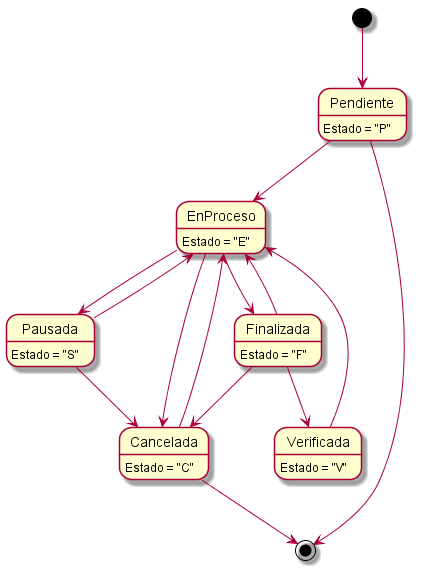
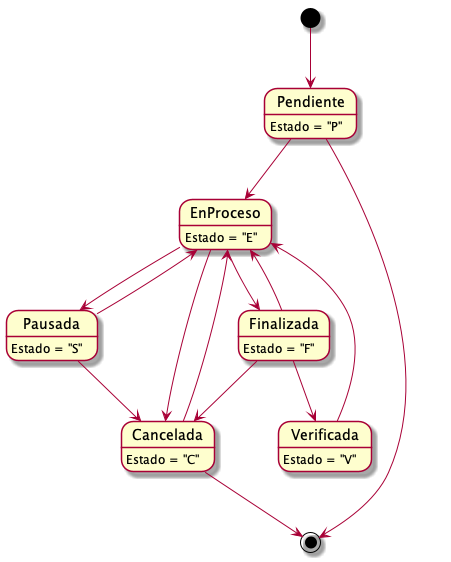
Nuevo Diagrama de Clases y cambios en Documentacion

diff --git a/Informe Final/Capitulos/Capitulo4/cap4sec1.tex b/Informe Final/Capitulos/Capitulo4/cap4sec1.tex
@@ -495,16 +495,68 @@
 			\input{Capitulos/Capitulo4/CasosUso/GestionTareas/cancelarTarea.tex}
 			\input{Capitulos/Capitulo4/CasosUso/GestionTareas/ejecutarTarea.tex}
 		\end{enumerate}
-	
-	\subsection{Diagramas de estado}
-	Solo se especificarán los diagramas de estado más relevantes del sistema.
 
-	\stateDiagram{empleados}{Diagrama de estado - Empleados}
-	\stateDiagram{tareas}{Diagrama de estado - Tareas}
-	\stateDiagram{lineasProducto}{Diagrama de estado - Lineas de producto}
-	\stateDiagram{presupuestos}{Diagrama de estado - Presupuestos}
-	\stateDiagram{ventas}{Diagrama de estado - Ventas}
-	\stateDiagram{ordenesProduccion}{Diagrama de estado - Órdenes de producción}
+	\subsection{Diagramas de clases}
+	\begin{figure}[H]
+		\centering
+		\includegraphics[width=\textwidth,height=0.90\textheight,keepaspectratio]{DiagramaClases/Vistas/diagramaClases}
+		\caption{Diagrama de clases}
+	\label{fig:Diagrama de clases}
+	\end{figure}
+	\clearpage %salto de pagina
+
+	\begin{figure}[H]
+		\centering
+		\includegraphics[width=\textwidth,height=0.90\textheight,keepaspectratio]{DiagramaClases/Vistas/vistaSistema}
+		\caption{Diagrama de clases - Vista sistema}
+	\label{fig:Diagrama de clases - Vista sistema}
+	\end{figure}
+
+	\begin{figure}[H]
+		\centering
+		\includegraphics[width=\textwidth,height=0.90\textheight,keepaspectratio]{DiagramaClases/Vistas/vistaClientes}
+		\caption{Diagrama de clases - Vista clientes}
+	\label{fig:Diagrama de clases - Vista clientes}
+    \end{figure}
+	\begin{figure}[H]
+		\centering
+		\includegraphics[width=\textwidth,height=0.90\textheight,keepaspectratio]{DiagramaClases/Vistas/vistaProductos}
+		\caption{Diagrama de clases - Vista productos}
+	\label{fig:Diagrama de clases - Vista productos}
+	\end{figure}
+	
+	\begin{figure}[H]
+		\centering
+		\includegraphics[width=\textwidth,height=0.90\textheight,keepaspectratio]{DiagramaClases/Vistas/vistaPresupuestosVentas}
+		\caption{Diagrama de clases - Vista presupuestos y ventas}
+	\label{fig:Diagrama de clases - Vista presupuestos y ventas}
+	\end{figure}
+
+	\begin{figure}[H]
+		\centering
+		\includegraphics[width=\textwidth,height=0.90\textheight,keepaspectratio]{DiagramaClases/Vistas/vistaProduccion}
+		\caption{Diagrama de clases - Vista producción}
+	\label{fig:Diagrama de clases - Vista producción}
+	\end{figure}
+
+	\begin{figure}[H]
+		\centering
+		\includegraphics[width=\textwidth,height=0.60\textheight,keepaspectratio]{DiagramaClases/Vistas/vistaEntregas}
+		\caption{Diagrama de clases - Vista entregas}
+	\label{fig:Diagrama de clases - Vista entregas}
+	\end{figure}
+
+	\clearpage %salto de pagina
+	\subsection{Diagramas de transición de estados}
+	Solo se especificarán los diagramas de transición de estados más relevantes del sistema.
+	\stateDiagram{empleados}{Diagrama de transición de estados - Empleados}
+	\stateDiagram{tareas}{Diagrama de transición de estados - Tareas}
+	\stateDiagram{lineasProducto}{Diagrama de transición de estados - Lineas de producto}
+	\stateDiagram{presupuestos}{Diagrama de transición de estados - Presupuestos}
+	\stateDiagram{ventas}{Diagrama de transición de estados - Ventas}
+	\stateDiagram{ordenesProduccion}{Diagrama de transición de estados - Órdenes de producción}
+	\stateDiagram{remitos}{Diagrama de transición de estados - Remitos}
+	
 		
 	
     

diff --git a/Informe Final/comandos.tex b/Informe Final/comandos.tex
@@ -12,7 +12,7 @@
 \newcommand{\stateDiagram}[2]{
 	\begin{figure}[H]
 		\centering
-		\includegraphics[width=\textwidth,height=0.95\textheight,keepaspectratio]{DiagramasEstado/DiagramaDeEstado/#1}
+		\includegraphics[width=\textwidth,height=0.5\textheight,keepaspectratio]{DiagramasEstado/DiagramaDeEstado/#1}
 		\caption{#2}
 	\label{fig:#1}
 	\end{figure}

diff --git a/Informe Final/Capitulo5.tex b/Informe Final/Capitulo5.tex
@@ -1,0 +1,6 @@
+\chapter{Especificación D}
+\label{ch:capitulo4} 
+\markboth{CAPÍTULO \ref*{ch:capitulo5}. Especificación D}{CAPÍTULO \ref*{ch:capitulo5}. Especificación D}
+\input{Capitulos/Capitulo5/cap5sec1.tex}
+%\input{capitulos/capitulo4/cap4sec2.tex}
+%\input{capitulos/capitulo4/cap4sec3.tex}
